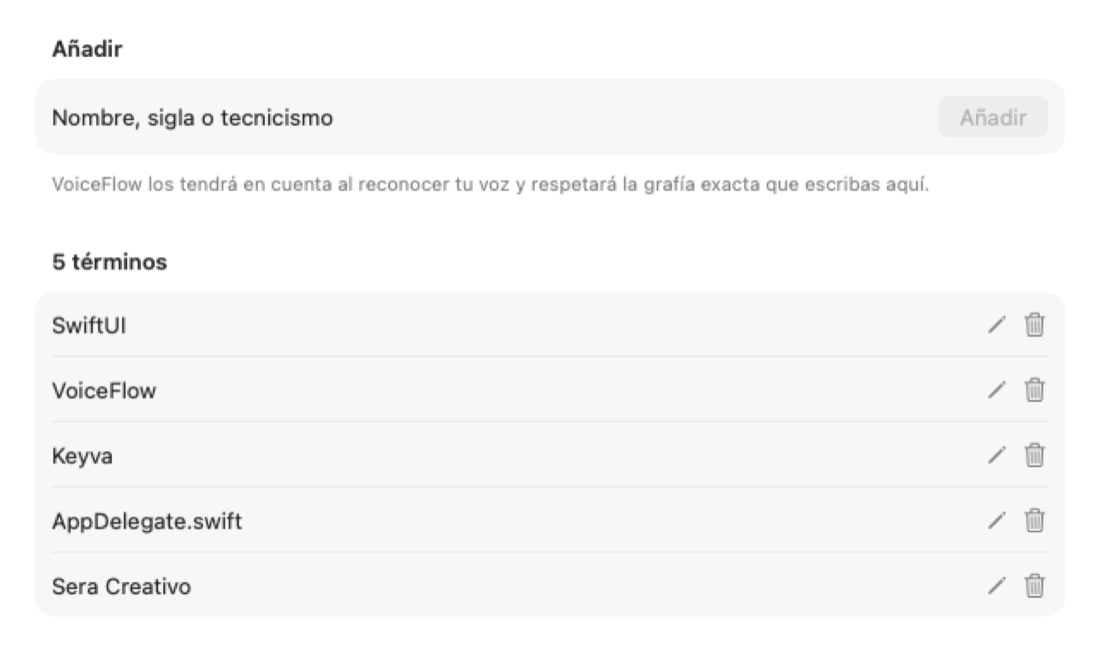
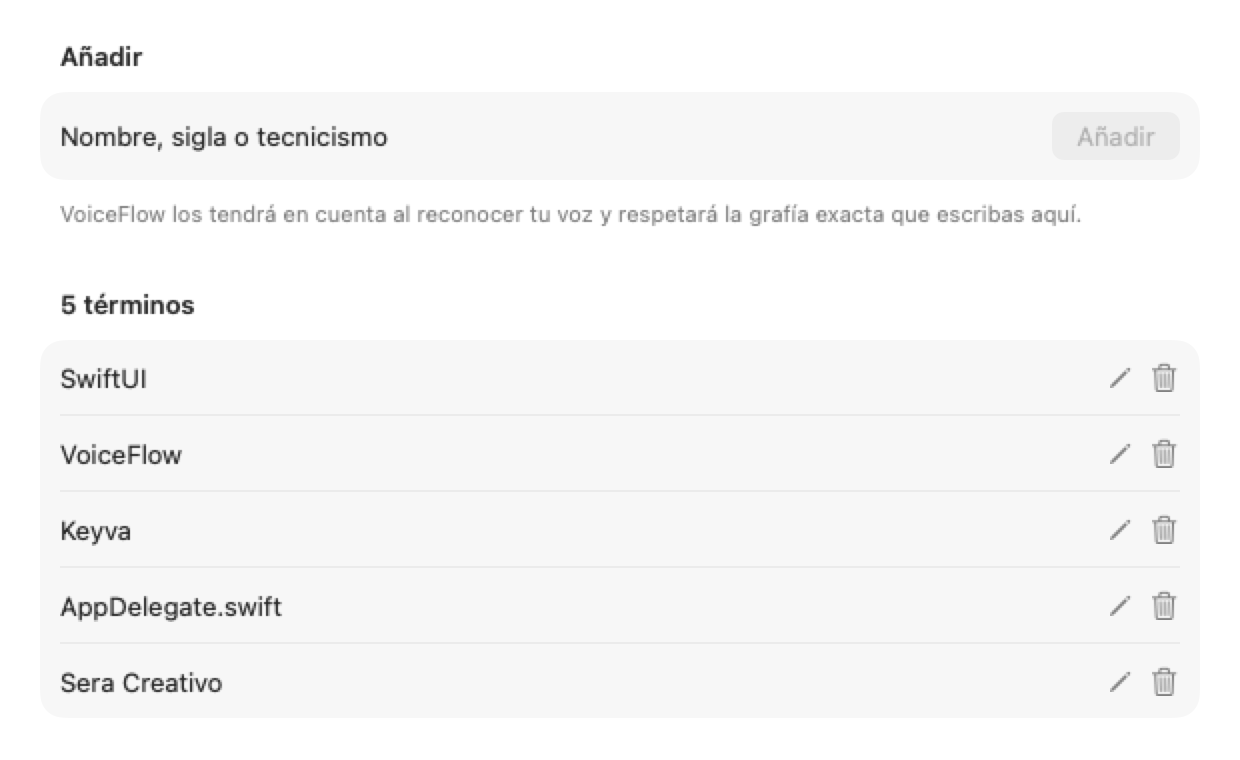
Capturas acotadas y a doble resolución
Las piezas se dibujan ya recortadas desde la app (nuevo modo -VFRenderPieces),
en vez de sacar la pantalla entera y recortarla por CSS. El indicador pasa a
3 píxeles por punto, que era lo que se veía dentado al ampliarlo.

diff --git a/index.html b/index.html
@@ -41,7 +41,7 @@
   <div class="marco hud">
     <picture>
       <source srcset="/img/hud-oscuro.png" media="(prefers-color-scheme: dark)">
-      <img src="/img/hud-claro.png" alt="El indicador de VoiceFlow mientras escucha, con la onda de la voz en movimiento">
+      <img src="/img/hud-claro.png" width="963" height="234" alt="El indicador de VoiceFlow mientras escucha, con la onda de la voz en movimiento">
     </picture>
   </div>
 </div>
@@ -71,7 +71,7 @@
     <div class="marco recorte">
       <picture>
         <source srcset="/img/dictado-oscuro.png" media="(prefers-color-scheme: dark)">
-        <img src="/img/dictado-claro.png" alt="Pantalla de dictado de VoiceFlow" loading="lazy">
+        <img src="/img/dictado-claro.png" width="1240" height="860" alt="Pantalla de dictado de VoiceFlow" loading="lazy">
       </picture>
     </div>
   </div>
@@ -93,8 +93,8 @@
     </div>
     <div class="marco recorte">
       <picture>
-        <source srcset="/img/ajustes-oscuro.png" media="(prefers-color-scheme: dark)">
-        <img src="/img/ajustes-claro.png" alt="Ajustes de VoiceFlow con los niveles de pulido" loading="lazy">
+        <source srcset="/img/pulido-oscuro.png" media="(prefers-color-scheme: dark)">
+        <img src="/img/pulido-claro.png" width="1240" height="470" alt="Ajustes de VoiceFlow con los niveles de pulido" loading="lazy">
       </picture>
     </div>
   </div>
@@ -114,7 +114,7 @@
       </ul>
     </div>
     <div class="marco">
-      <img src="/img/traductor.png" alt="La ventanita de traducción de VoiceFlow, con las acciones de copiar y sustituir" loading="lazy">
+      <img src="/img/traductor.png" width="856" height="346" alt="La ventanita de traducción de VoiceFlow, con las acciones de copiar y sustituir" loading="lazy">
     </div>
   </div>
 
@@ -134,7 +134,7 @@
     <div class="marco recorte">
       <picture>
         <source srcset="/img/vocabulario-oscuro.png" media="(prefers-color-scheme: dark)">
-        <img src="/img/vocabulario-claro.png" alt="Pantalla de vocabulario propio de VoiceFlow" loading="lazy">
+        <img src="/img/vocabulario-claro.png" width="1240" height="760" alt="Pantalla de vocabulario propio de VoiceFlow" loading="lazy">
       </picture>
     </div>
   </div>
@@ -207,7 +207,7 @@
     <div class="marco recorte">
       <picture>
         <source srcset="/img/licencia-oscuro.png" media="(prefers-color-scheme: dark)">
-        <img src="/img/licencia-claro.png" alt="Pantalla de licencia de VoiceFlow" loading="lazy">
+        <img src="/img/licencia-claro.png" width="1240" height="978" alt="Pantalla de licencia de VoiceFlow" loading="lazy">
       </picture>
     </div>
   </div>

diff --git a/_estilo.css b/_estilo.css
@@ -83,10 +83,9 @@ h1 { font-size: clamp(2.4rem, 6vw, 4rem); line-height: 1.02;
 }
 .marco img { display: block; width: 100%; height: auto; border-radius: .6rem; }
 .marco.hud { padding: 2.6rem; }
-.marco.hud img { max-width: 30rem; box-shadow: none; border-radius: .8rem; }
-.marco.recorte img { width: 100%; height: 23rem; object-fit: cover;
-                     object-position: top center; }
-@media (max-width: 860px) { .marco.recorte img { height: 18rem; } }
+.marco.hud img { max-width: 26rem; box-shadow: none; border-radius: .8rem; }
+.marco img { width: 100%; height: auto; }
+.marco.recorte { padding: .9rem; }
 
 /* ── Secciones ─────────────────────────────────────────────────────────── */
 section { padding: 3rem 0; }
@@ -99,8 +98,11 @@ p { margin: 0 0 1rem; }
 .apagado { color: var(--suave); }
 
 /* Texto + captura, alternando lado. */
-.duo { display: grid; grid-template-columns: 1fr 1fr; gap: 3rem;
+.duo { display: grid; grid-template-columns: 1fr 1.2fr; gap: 2.6rem;
        align-items: center; padding: 2rem 0; }
+/* La columna de la captura va algo más ancha: el texto de dentro de una captura de
+   interfaz se lee al tamaño que tiene, y encogerla lo vuelve decorativo. */
+.duo.invertido { grid-template-columns: 1.2fr 1fr; }
 .duo > * { min-width: 0; }   /* sin esto una imagen ancha desborda su columna */
 .duo.invertido .texto { order: 2; }
 @media (max-width: 860px) {
